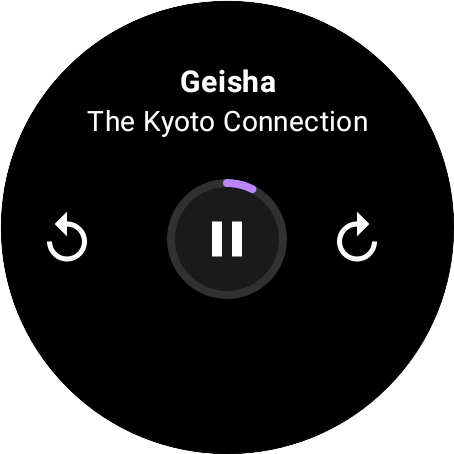
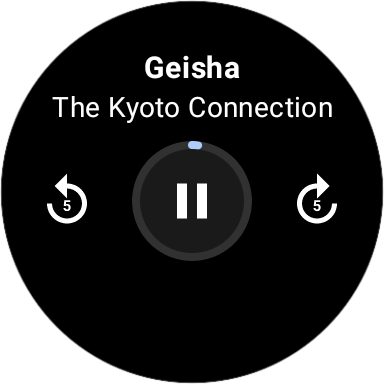
Fix doc for simple player

diff --git a/docs/simple-media-app-guide.md b/docs/simple-media-app-guide.md
@@ -13,7 +13,7 @@ This guide assumes that you are familiar with:
 
 ### 1 - Add dependency
 
-Add dependency on `media-ui` to your project’s `build.gradle`:
+Create a new project from Android Studio by choosing a Wear OS Empty Compose Activity. Add dependency on `media-ui` to your project’s `build.gradle`:
 
 ```groovy
 implementation "com.google.android.horologist:horologist-media-ui:$horologist_version"
@@ -69,11 +69,12 @@ None of the controls are working, as they were not implemented yet.
 
 ### 1 - Add dependencies
 
-Add dependency on `media-data`, `compose-layout` and `media3-exoplayer` to your project’s
+Add dependency on `media-data`, `audio-ui` and `media3-exoplayer` to your project’s
 build.gradle:
 
 ```groovy
 implementation "com.google.android.horologist:horologist-media-data:$horologist_version"
+implementation "com.google.android.horologist:horologist-audio-ui:$horologist_version"
 implementation("androidx.media3:media3-exoplayer:$media3_version")
 ```
 
@@ -106,12 +107,6 @@ init {
                 artist = "The Kyoto Connection"
             )
         )
-
-        // update the track position while app is in foreground
-        while (isActive) {
-            delay(1000)
-            playerRepository.updatePosition()
-        }
     }
 }
 ```
@@ -121,22 +116,40 @@ init {
 Change your `Activity`’s `onCreate` function to:
 
 ```kotlin
-val player = ExoPlayer.Builder(this).build()
+val player = ExoPlayer.Builder(this)
+        .setSeekForwardIncrementMs(5000L)
+        .setSeekBackIncrementMs(5000L)
+        .build()
 // ViewModels should NOT be created here like this
 val viewModel = MyViewModel(player)
+val volumeViewModel = createVolumeViewModel()
 
 PlayerScreen(
-    mediaDisplay = { playerUiState ->
-        DefaultMediaDisplay(media = playerUiState.media)
-    },
-    controlButtons = { playerUiState ->
-        PodcastControlButtons(
-            playerViewModel = viewModel,
-            playerUiState = playerUiState,
-        )
-    },
-    buttons = { }
+        playerViewModel = viewModel,
+        volumeViewModel = volumeViewModel,
+        mediaDisplay = { playerUiState: PlayerUiState ->
+          DefaultMediaInfoDisplay(playerUiState)
+        },
+        controlButtons = { playerUIController: PlayerUiController,
+                           playerUiState: PlayerUiState ->
+          PodcastControlButtons(
+                  playerController = playerUIController,
+                  playerUiState = playerUiState
+          )
+        },
+        buttons = { }
 )
+```
+Add `createVolumeViewModel` function to create a VolumeViewModel:
+
+```kotlin
+fun createVolumeViewModel(): VolumeViewModel {
+        val audioRepository = SystemAudioRepository.fromContext(application)
+        val vibrator: Vibrator = application.getSystemService(Vibrator::class.java)
+        return VolumeViewModel(audioRepository, audioRepository, onCleared = {
+            audioRepository.close()
+        }, vibrator)
+    }
 ```
 
 We are creating an instance of `ExoPlayer`, passing it to the `ViewModel`.
